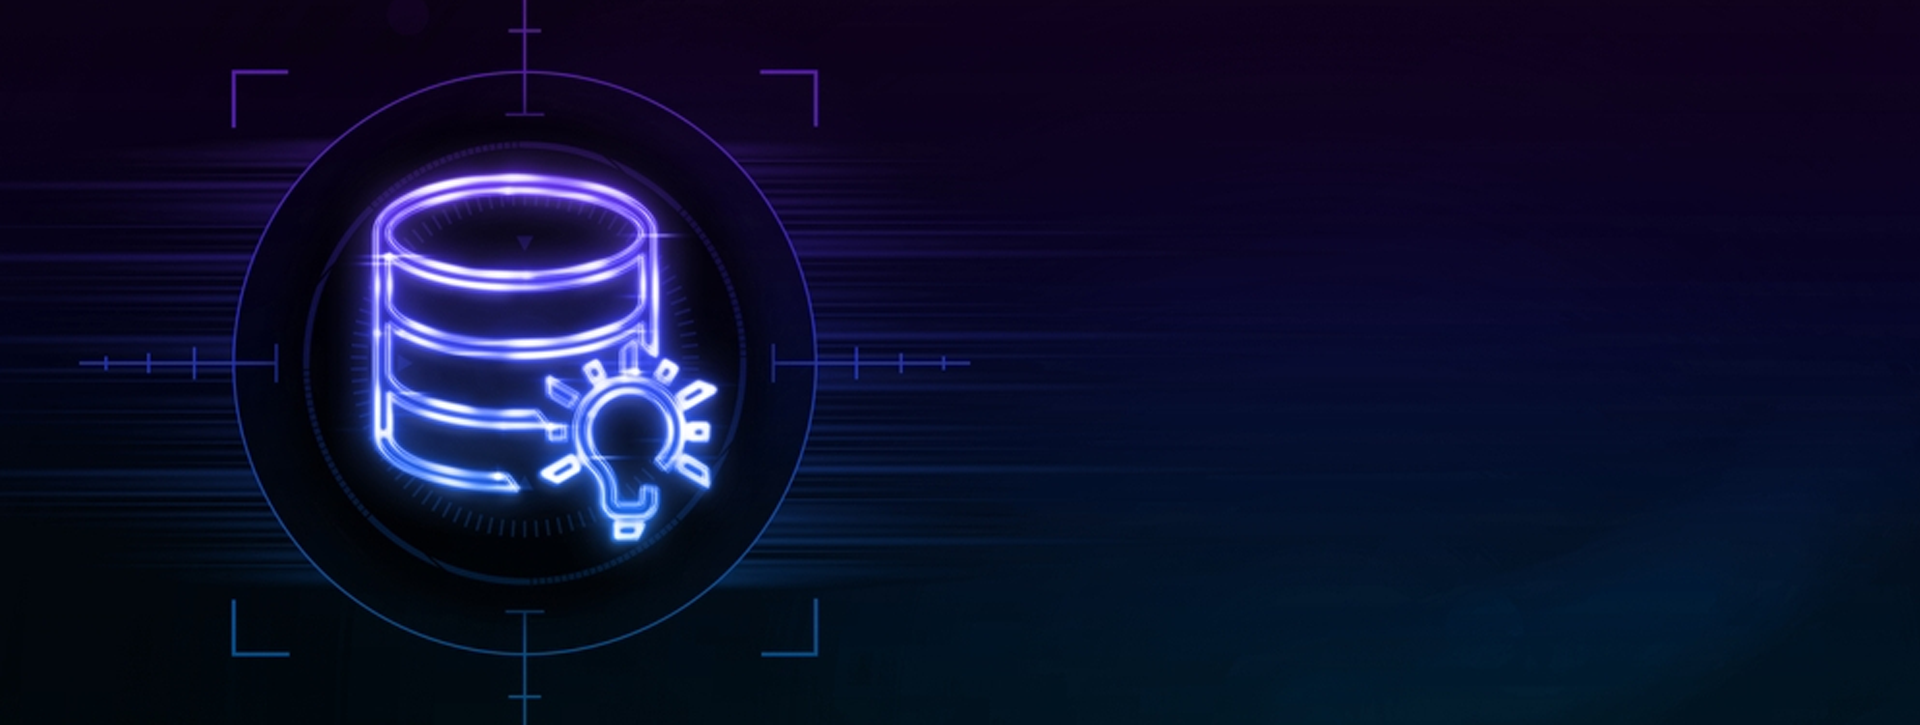
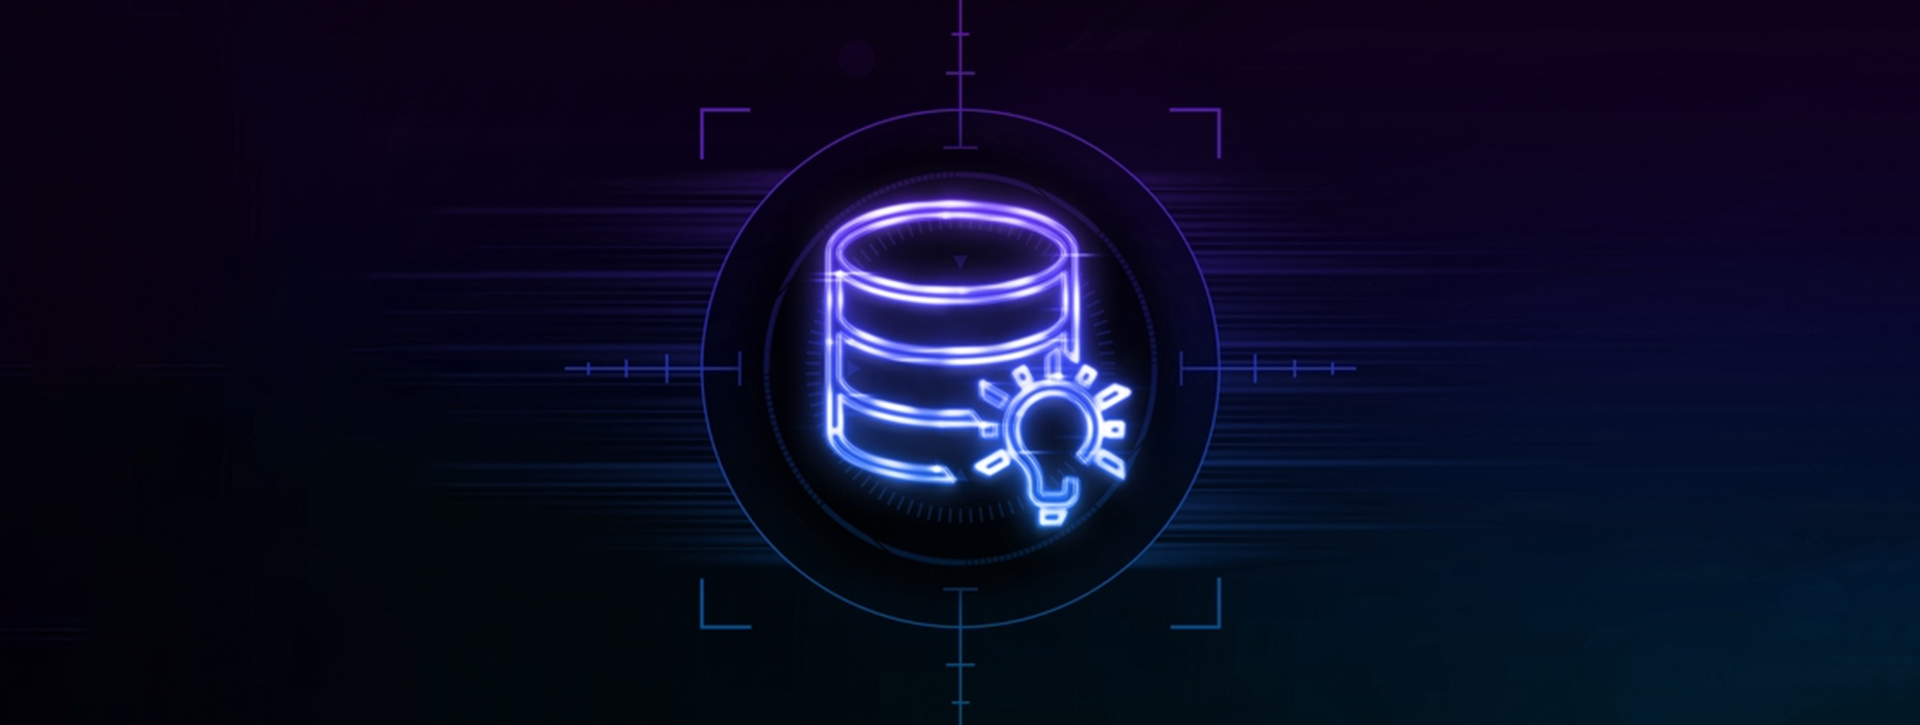
image updated

diff --git a/components/resources/ResourcesBanner.js b/components/resources/ResourcesBanner.js
@@ -26,7 +26,7 @@ const ResourcesBanner = ({ data }) => {
             objectFit="cover"
             alt=""
           />
-          <div className="bg-[#B2C7E2]/30 absolute h-full w-full z-40"></div>
+          {/* <div className="bg-[#B2C7E2]/30 absolute h-full w-full z-40"></div> */}
         </div>
       </>
     );
